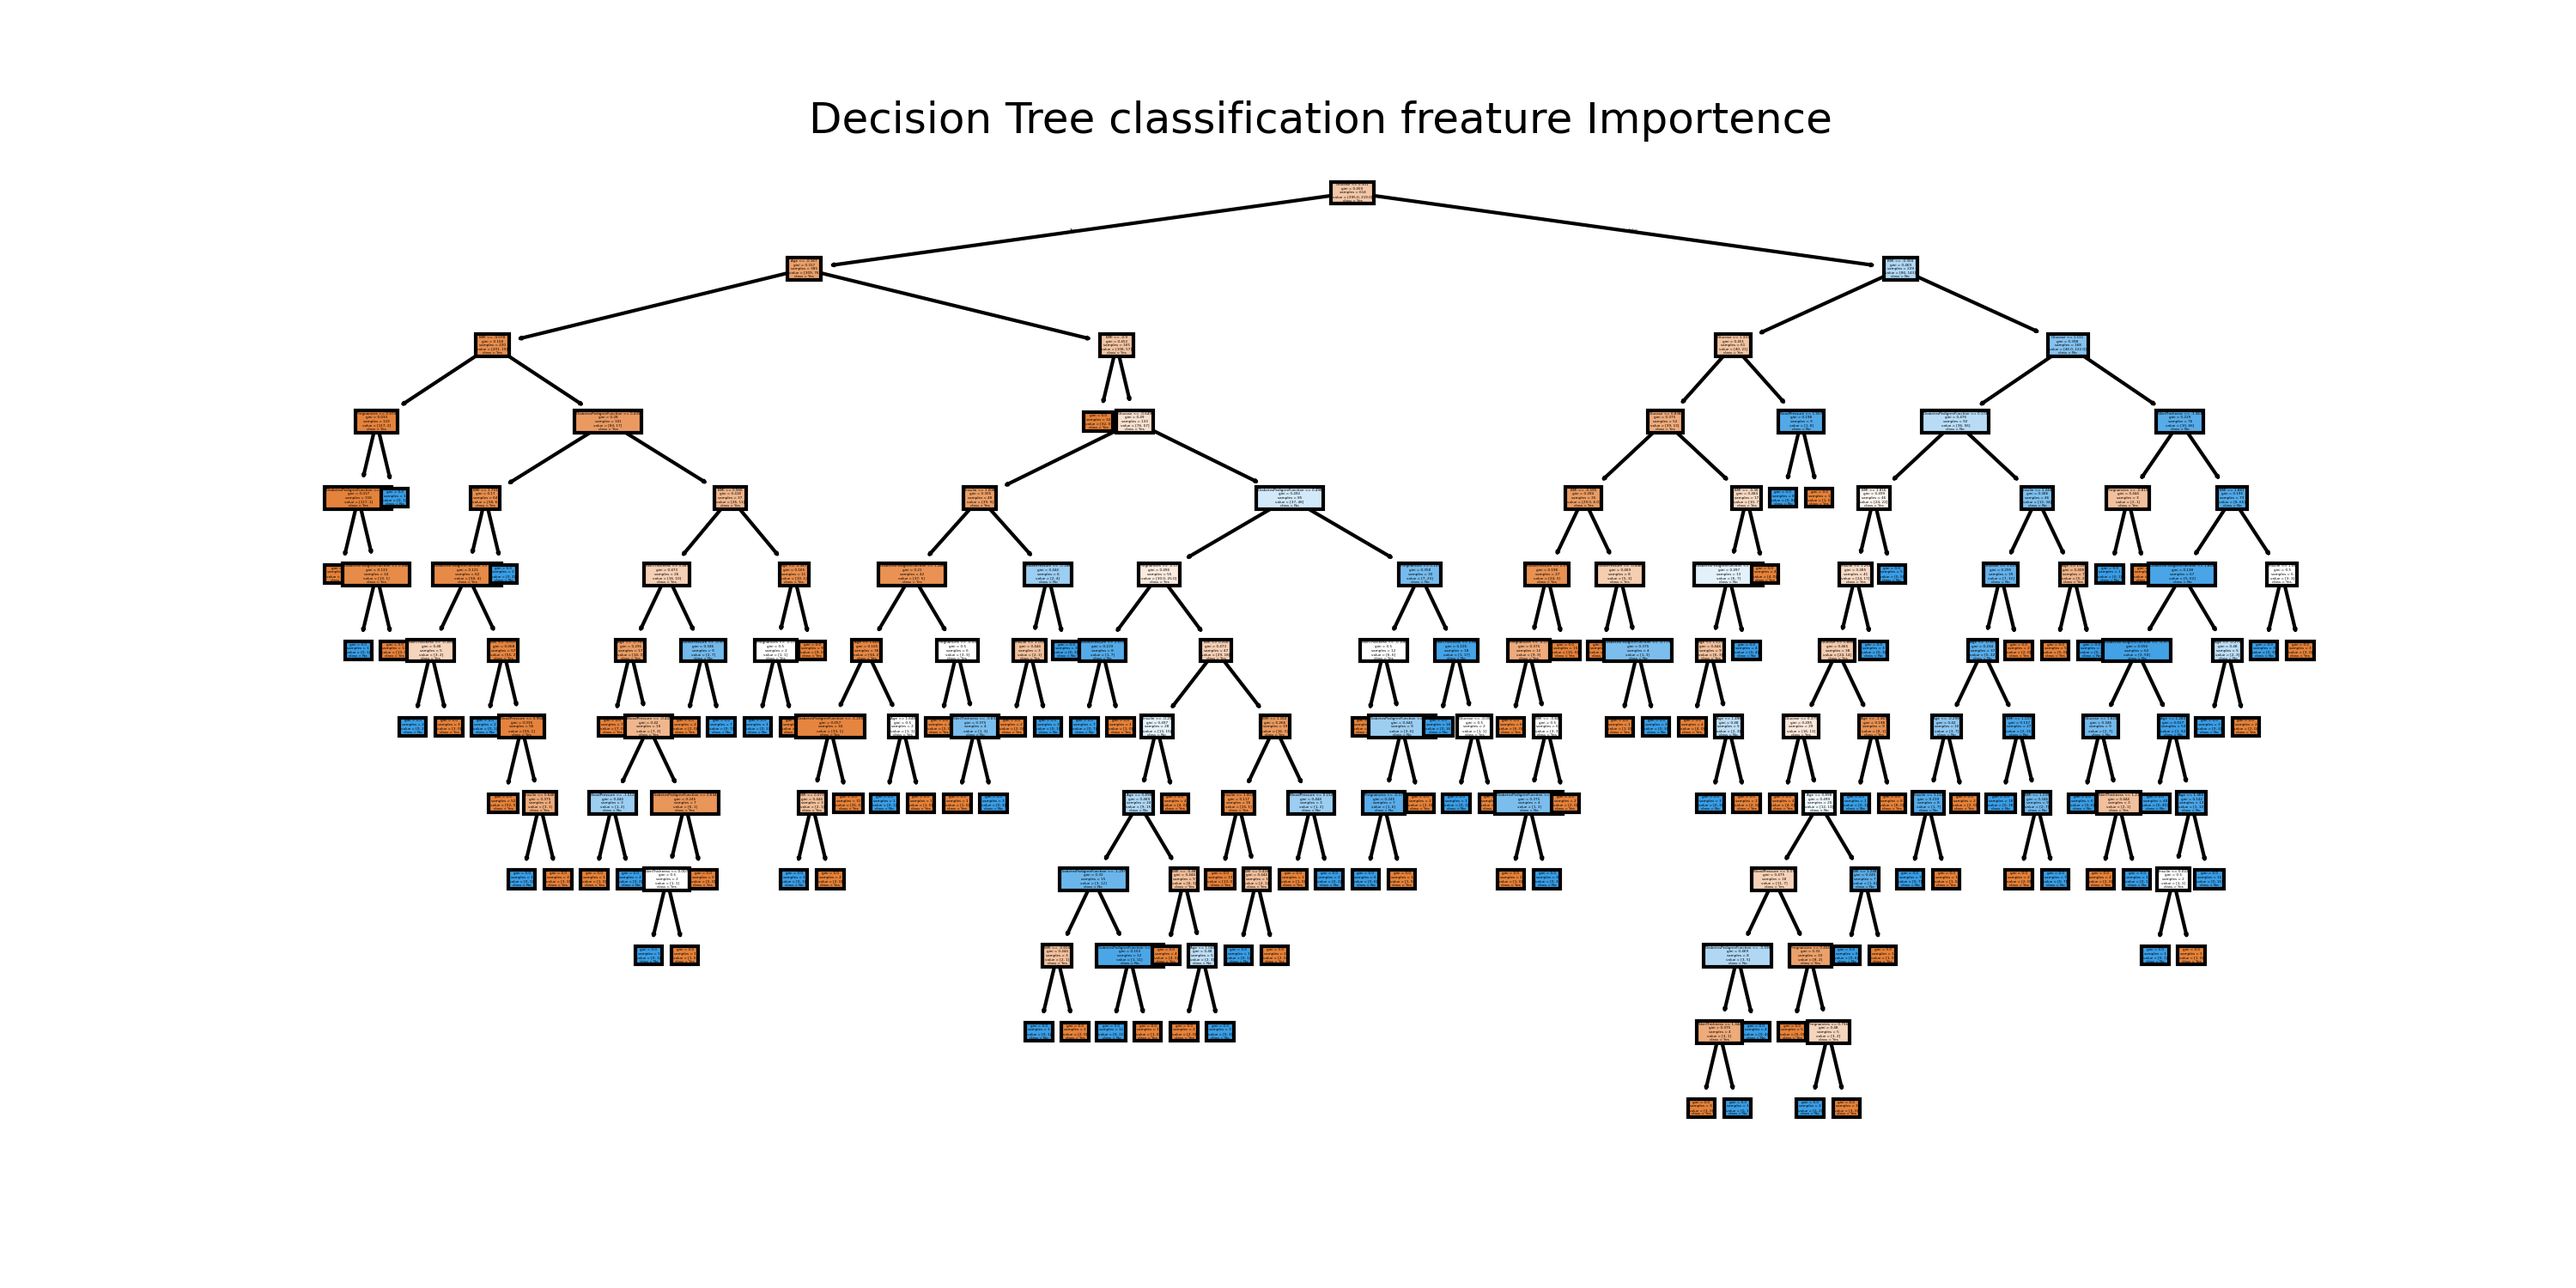
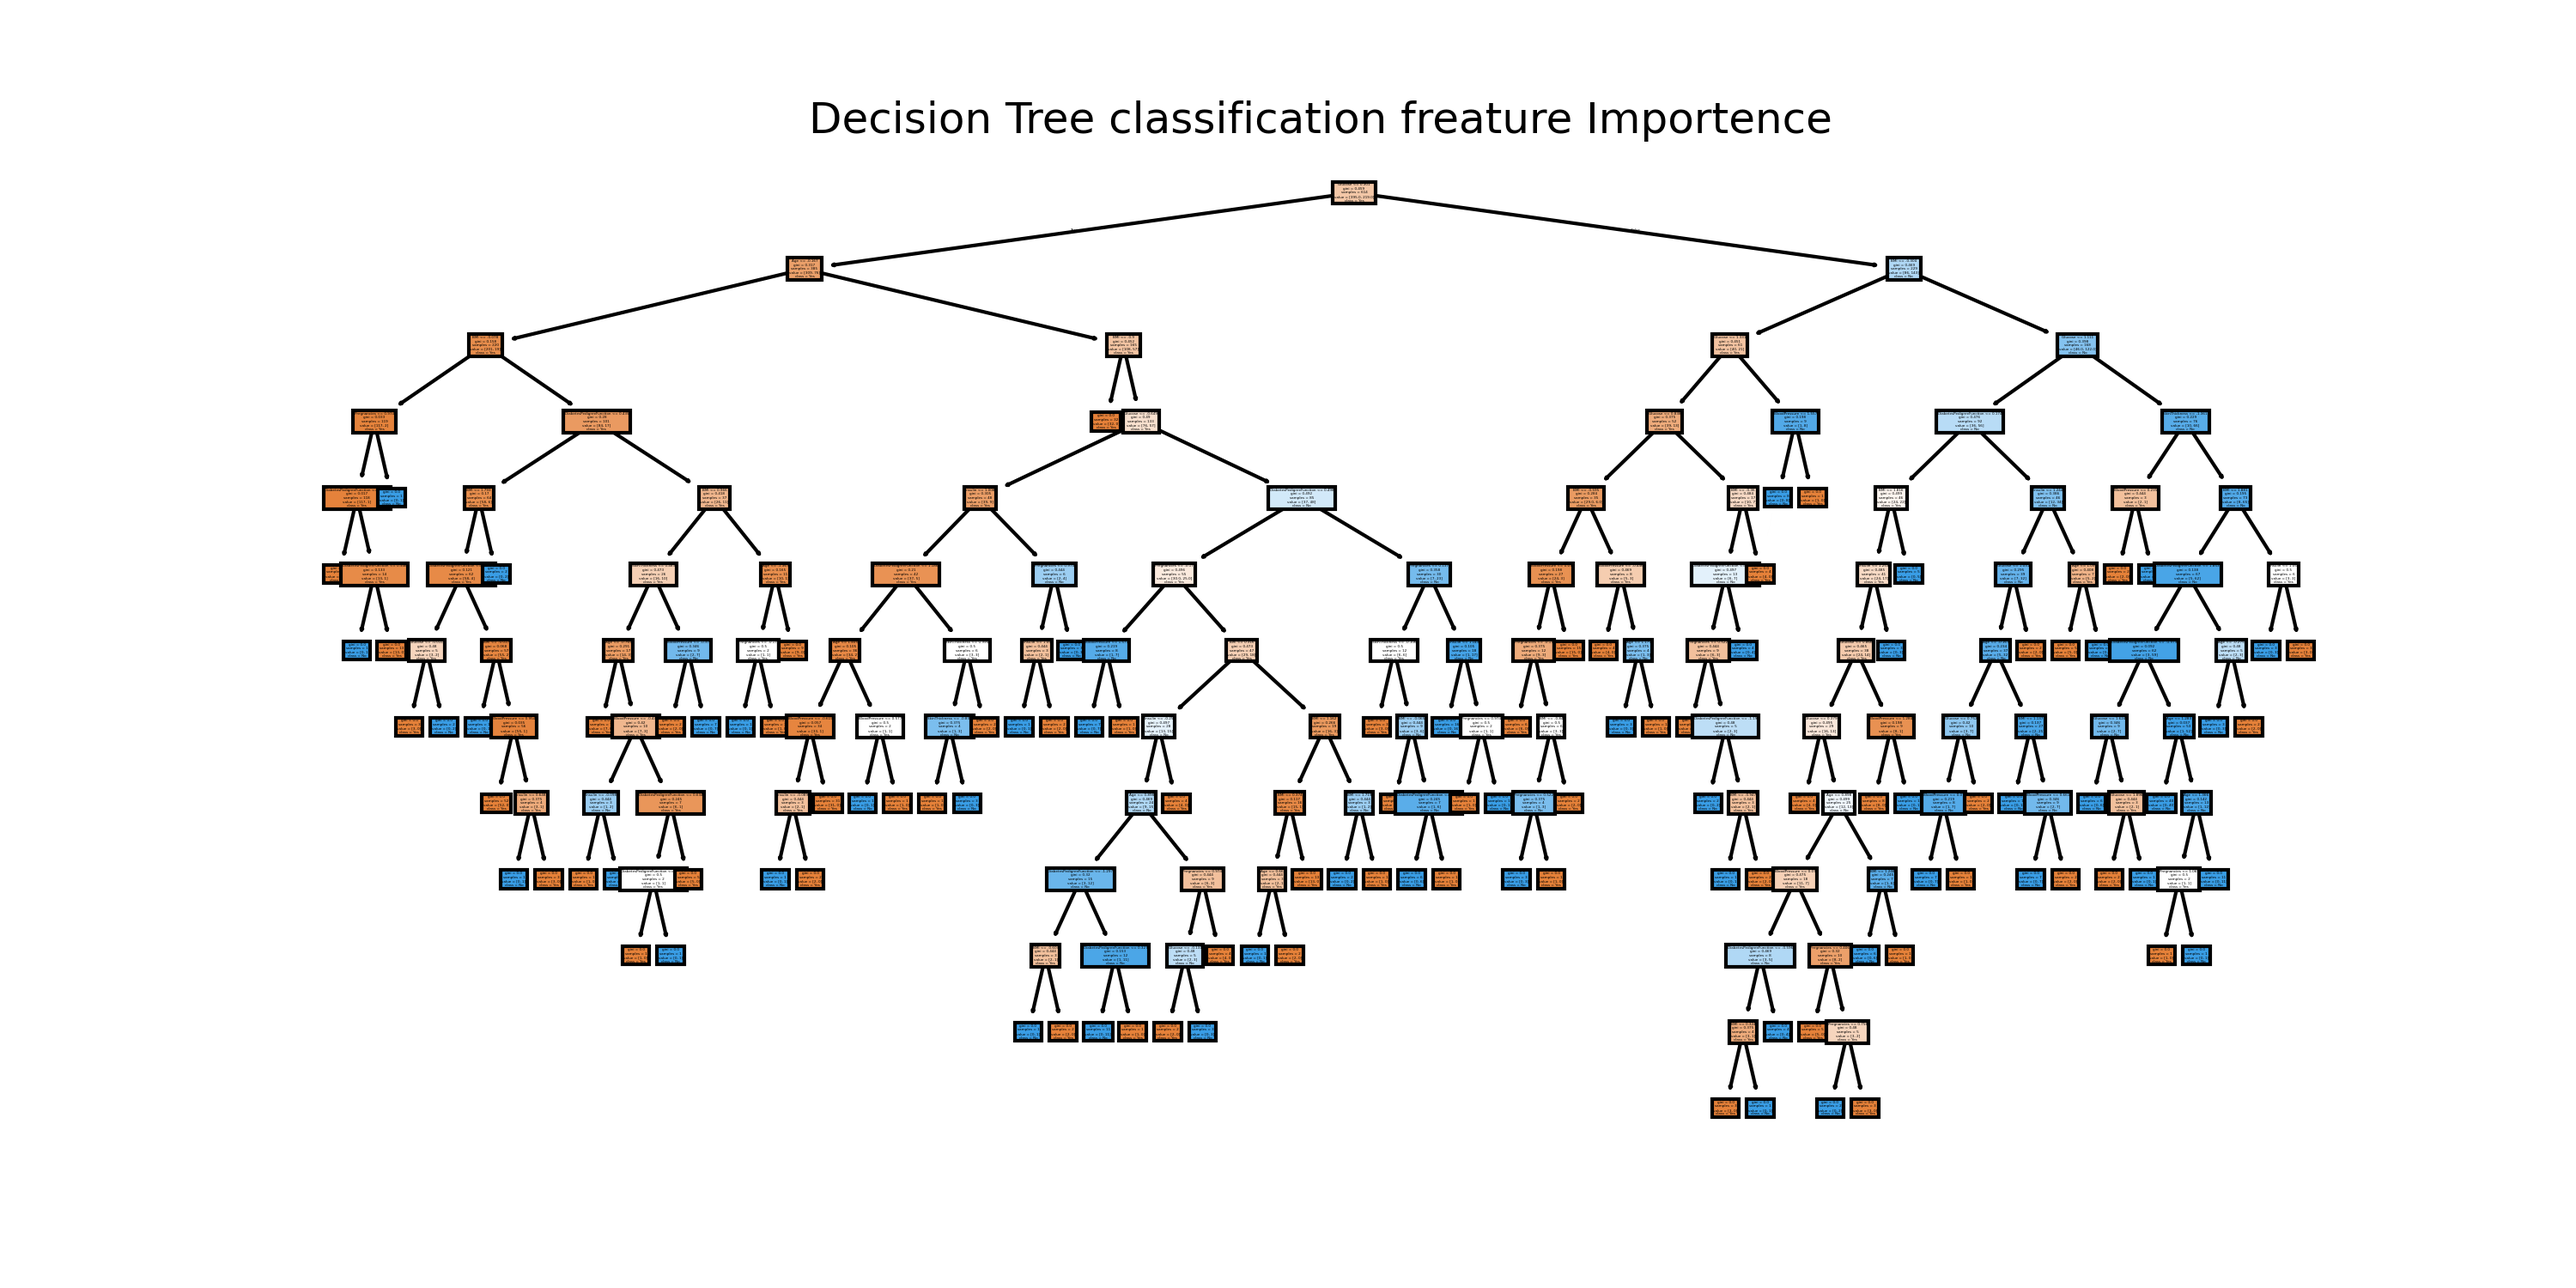
commit

diff --git a/src/project/algorithms.py b/src/project/algorithms.py
@@ -6,6 +6,8 @@ import seaborn as sns
 from sklearn.tree import DecisionTreeClassifier,plot_tree
 from sklearn.model_selection import train_test_split
 from sklearn.metrics import accuracy_score,confusion_matrix,ConfusionMatrixDisplay
+from sklearn.linear_model import LogisticRegression
+from sklearn.svm import SVC
 from sklearn.model_selection import cross_val_score
 from sklearn.model_selection import GridSearchCV
 from sklearn.preprocessing import StandardScaler
@@ -19,6 +21,206 @@ scale=StandardScaler()
 X_scale_new=scale.fit_transform(X_new)
 
 
+
+# Logistic Regression Model:
+
+class Logistic_Randomstate:
+
+    try:
+
+
+        log_train_random=[]
+        log_test_random=[]
+
+        for i in range(0,100):
+
+            X_train_log,X_test_log,y_train_log,y_test_log=train_test_split(X_scale_new,y,test_size=0.2,random_state=i)
+            log_model=LogisticRegression()
+            log_model.fit(X_train_log,y_train_log)
+            y_pred_train=log_model.predict(X_train_log)
+            y_pred_test=log_model.predict(X_test_log)
+            log_train_random.append(accuracy_score(y_pred_train,y_train_log))
+            log_test_random.append(accuracy_score(y_test_log,y_test_log))
+
+    except Exception as e:
+        raise Exception(f'Error in Logistic_Regression_Randomstate init level :\n'+str(e))
+
+class Logistic_Regression(Logistic_Randomstate):
+
+    X_train_log,X_test_log,y_train_log,y_test_log=train_test_split(X_scale_new,y,test_size=0.2,random_state=np.argmax(Logistic_Randomstate.log_test_random))
+
+    try:
+
+        logistic_model=LogisticRegression()
+        logistic_model.fit(X_train_log,y_train_log)
+        y_log_pred_train=logistic_model.predict(X_train_log)
+        y_log_pred_test=logistic_model.predict(X_test_log)
+        accuracy_log_train=accuracy_score(y_log_pred_train,y_train_log)
+        accuracy_log_test=accuracy_score(y_log_pred_test,y_test_log)
+        cross_val_log=cross_val_score(logistic_model,X_scale_new,y,cv=5).mean()
+        con_mat_log=confusion_matrix(y_test_log,y_log_pred_test)
+
+    except Exception as e:
+        raise Exception(f'Error in Logistic_Regression init level :\n'+str(e))
+
+
+    def __init__(self,logistic_model,y_log_pred_train,y_log_pred_test,accuracy_train,accuracy_test,cross_val_log,con_mat_log,log_model,log_train_random,log_test_random):
+
+        try:
+
+            self.logistic_model=logistic_model
+            self.y_log_pred_train=y_log_pred_train
+            self.y_log_pred_test=y_log_pred_test
+            self.accuracy_train=accuracy_train
+            self.accuracy_test=accuracy_test
+            self.cross_val_log=cross_val_log
+            self.con_mat_log=con_mat_log
+            self.log_model=log_model
+            self.log_train_random=log_train_random
+            self.log_test_random=log_test_random
+
+        except Exception as e:
+            raise Exception(f'Error in Logistic_Regression_Randomstate init level :\n'+str(e))
+        
+    try:
+
+
+        def logistic_model_defin(self):
+            return self.logistic_model
+        
+        def y_log_pred_train_defin(self):
+            return self.y_log_pred_train
+        
+        def y_log_pred_test_defin(self):
+            return self.y_log_pred_test
+        
+        def accuracy_train_defin(self):
+            return self.accuracy_train
+        
+        def accuracy_test_defin(self):
+            return self.accuracy_test
+        
+        def cross_val_defin(self):
+            return self.cross_val_log
+        
+        def con_mat_defin(self):
+            return self.con_mat_log
+        
+        def log_model_defin(self):
+            return super().log_model
+        
+        def log_train_random_defin(self):
+            return super().log_train_random
+        
+        def log_test_random_defin(self):
+            return super().log_test_random
+        
+    except Exception as e:
+        raise Exception(f'Error in Logistic_Regression_Randomstate init level :\n'+str(e))
+    
+
+
+ConfusionMatrixDisplay(Logistic_Regression.con_mat_log,display_labels=df['Outcome'].unique()).plot()
+plt.title('Confusion Matrix plot for Logistic Regression classification :')
+plt.savefig('C:/AI&ML Engineer/Projects/Apple/diabetes Prediction/plots/Logistic_Regression/cm_log.png')
+
+
+
+# Suport vectore classification model:
+
+
+
+class SVC_Randomstate:
+
+    try:
+
+        svc_train_random=[]
+        svc_test_random=[]
+
+        for i in range(0,100):
+            
+            X_train_svc,X_test_svc,y_train_svc,y_test_svc=train_test_split(X_scale_new,y,test_size=0.2,random_state=i)
+            svc_model=SVC()
+            svc_model.fit(X_train_svc,y_train_svc)
+            y_pred_train=svc_model.predict(X_train_svc)
+            y_pred_test=svc_model.predict(X_test_svc)
+            svc_train_random.append(accuracy_score(y_pred_train,y_train_svc))
+            svc_test_random.append(accuracy_score(y_pred_test,y_test_svc))
+
+    except Exception as e:
+        raise Exception(f'Error in SVC_Randomstate init level :\n'+str(e))
+
+class SVC_Classification(SVC_Randomstate):
+
+    X_train_svc,X_test_svc,y_train_svc,y_test_svc=train_test_split(X_scale_new,y,test_size=0.2,random_state=np.argmax(SVC_Randomstate.svc_test_random))
+
+    try: 
+        svc_main_model=SVC()
+        svc_main_model.fit(X_train_svc,y_train_svc)
+        y_svc_pred_train=svc_main_model.predict(X_train_svc)
+        y_svc_pred_test=svc_main_model.predict(X_test_svc)
+        accuracy_svc_train=accuracy_score(y_svc_pred_train,y_train_svc)
+        accuracy_svc_test=accuracy_score(y_svc_pred_test,y_test_svc)
+        cross_val_svc=cross_val_score(svc_main_model,X_scale_new,y,cv=5).mean()
+        con_mat_svc=confusion_matrix(y_test_svc,y_svc_pred_test)
+
+    except Exception as e:
+        raise Exception(f'Error in SVC_Classification init level :\n'+str(e))
+    
+    def __init__(self,svc_main_model,y_svc_pred_train,y_svc_pred_test,accuracy_train,accuracy_test,cross_val_svc,con_mat_svc,svc_model,svc_train_random,svc_test_random):
+
+        try:
+
+            self.svc_main_model=svc_main_model
+            self.y_svc_pred_train=y_svc_pred_train
+            self.y_svc_pred_test=y_svc_pred_test
+            self.accuracy_train=accuracy_train
+            self.accuracy_test=accuracy_test
+            self.cross_val_svc=cross_val_svc
+            self.con_mat_svc=con_mat_svc
+
+        except Exception as e:
+            raise Exception(f'Error in SVC_Classification init level :\n'+str(e))
+        
+    try:
+
+        def svc_main_model_defin(self):
+            return self.svc_main_model
+        
+        def y_svc_pred_train_defin(self):
+            return self.y_svc_pred_train
+        
+        def y_svc_pred_test_defin(self):
+            return self.y_svc_pred_test
+        
+        def accuracy_train_defin(self):
+            return self.accuracy_train
+        
+        def accuracy_test_defin(self):
+            return self.accuracy_test
+        
+        def cross_val_defin(self):
+            return self.cross_val_svc
+        
+        def con_mat_defin(self):
+            return self.con_mat_svc
+        
+        def svc_model_defin(self):
+            return super().svc_model
+        
+        def svc_train_random_defin(self):
+            return super().svc_train_random
+        
+        def svc_test_random_defin(self):
+            return super().svc_test_random
+        
+    except Exception as e:
+        raise Exception(f'Error in SVC_Classification init level :\n'+str(e))
+    
+
+ConfusionMatrixDisplay(SVC_Classification.con_mat_svc,display_labels=df['Outcome'].unique()).plot()
+plt.title('Confusion Matrix plot for SVC classification :')
+plt.savefig('C:/AI&ML Engineer/Projects/Apple/diabetes Prediction/plots/SVC/cm_svc.png')
 
 
 
@@ -37,29 +239,25 @@ class DecisionTree_Randomstate:
 
         for i in range(0,100):
             
-            X_train_dt,X_test_dt,y_train_dt,y_test_dt=train_test_split(X_scale_new,y,test_size=0.20,random_state=i)
-            
-            deci_model=DecisionTreeClassifier(criterion= 'entropy', max_depth= 5, max_leaf_nodes= 5, min_samples_leaf= 2, min_samples_split= 2, splitter= 'random')
+            X_train_dt,X_test_dt,y_train_dt,y_test_dt=train_test_split(X_scale_new,y,test_size=0.2,random_state=i)
+            deci_model=DecisionTreeClassifier()
             deci_model.fit(X_train_dt,y_train_dt)
             y_pred_train=deci_model.predict(X_train_dt)
             y_pred_test=deci_model.predict(X_test_dt)
-            decision_train_random.append(accuracy_score(y_train_dt,y_pred_train))
-            decision_test_ramdom.append(accuracy_score(y_test_dt,y_pred_test))
+            decision_train_random.append(accuracy_score(y_pred_train,y_train_dt))
+            decision_test_ramdom.append(accuracy_score(y_pred_test,y_test_dt))
 
     except Exception as e:
         raise Exception(f'Error in DecisionTree_Randomstate init level :\n'+str(e))
-    
-       
-    
+
 
 class DecisionTree_Classification(DecisionTree_Randomstate):
+    
+    X_train_dt,X_test_dt,y_train_dt,y_test_dt=train_test_split(X_scale_new,y,test_size=0.2,random_state=np.argmax(DecisionTree_Randomstate.decision_test_ramdom))
 
     try:
 
-
-        X_train_dt,X_test_dt,y_train_dt,y_test_dt=train_test_split(X_scale_new,y,test_size=0.20,random_state=np.argmax(DecisionTree_Randomstate.decision_test_ramdom))
-
-        decision_model=DecisionTreeClassifier(criterion= 'gini', max_depth= 4, max_leaf_nodes= 5, min_samples_leaf= 3, min_samples_split= 3, splitter= 'random')
+        decision_model=DecisionTreeClassifier(criterion= 'entropy', max_depth= 4)
         decision_model.fit(X_train_dt,y_train_dt)
         y_pred_train=decision_model.predict(X_train_dt)
         y_pred_test=decision_model.predict(X_test_dt)
@@ -128,19 +326,26 @@ class DecisionTree_Classification(DecisionTree_Randomstate):
     
 
 
-
-
-
-
-
-
-
-
-
-
 ConfusionMatrixDisplay(DecisionTree_Classification.con_mat,display_labels=df['Outcome'].unique()).plot()
 plt.title('Confusion Matrix plot for Decision Tree classification :')
-plt.savefig('C:/AI&ML Engineer/Projects/Apple/diabetes Prediction/src/project/cm_decision.png')
-    
-    
+plt.savefig('C:/AI&ML Engineer/Projects/Apple/diabetes Prediction/plots/Decision_Tree/cm_decision.png')
 
+
+print("Test Accuracy for Decision Tree :",DecisionTree_Classification.accuracy_test)
+print("Best Test Random state number :",np.argmax(DecisionTree_Randomstate.decision_test_ramdom))
+print("Train Accuracy for Decision Tree :",DecisionTree_Classification.accuracy_train)
+print("CV Accuracy for Decision Tree :",DecisionTree_Classification.cross_val)
+
+print('##'*30)
+
+print("Test Accuracy for Logistic Regression :",Logistic_Regression.accuracy_log_test)
+print("Best Test Random state number Logistic Regression :",np.argmax(Logistic_Regression.log_test_random))
+print("Train Accuracy for Logistic Regression :",Logistic_Regression.accuracy_log_train)
+print("CV Accuracy for Logistic Regression :",Logistic_Regression.cross_val_log)
+
+print('##'*30)
+
+print("Test Accuracy for SVC :",SVC_Classification.accuracy_svc_test)
+print("Best Test Random state number SVC :",np.argmax(SVC_Classification.svc_test_random))
+print("Train Accuracy for SVC :",SVC_Classification.accuracy_svc_train)
+print("CV Accuracy for SVC :",SVC_Classification.cross_val_svc)

diff --git a/src/project/feature_selection.py b/src/project/feature_selection.py
@@ -26,7 +26,7 @@ class DecisionTree_bestparam:
             X_train_dt,X_test_dt,y_train_dt,y_test_dt=train_test_split(X_scale,y,test_size=0.20,random_state=r)
             dec_modl=DecisionTreeClassifier()
             dec_modl.fit(X_train_dt,y_train_dt)
-            param={'criterion':['gini','entropy', 'log_loss'], 'splitter':['best','random'], 'max_depth':[1,2,3,4,5], 'min_samples_split':[2,3,5],'min_samples_leaf':[1,2,3,4,5], 'max_leaf_nodes':[1,2,3,4,5]}
+            param={'criterion':['gini','entropy', 'log_loss'], 'max_depth':[1,2,3,4,5]}
             d_gcv=GridSearchCV(dec_modl,param_grid=param,cv=5,verbose=5)
             d_gcv.fit(X_train_dt,y_train_dt)
             best_param=d_gcv.best_params_
@@ -65,5 +65,6 @@ plt.savefig('C:/AI&ML Engineer/Projects/Apple/diabetes Prediction/src/project/fe
 
 feat_imp=pd.DataFrame(data=DecisionTree_bestparam.d_gcv.best_estimator_.feature_importances_,index=X.columns,columns=['Feature_Importance'])
 feature_imp=feat_imp[feat_imp['Feature_Importance']>0]
-feature_selection=feature_imp.index.tolist()
-X_new=df.loc[:,['Glucose_root','BMI_root','Age_box']]
+feature_selection=feature_imp.index.to_list()
+
+X_new=X[feature_selection]

diff --git a/README.md b/README.md
@@ -417,7 +417,34 @@ Name: BMI, dtype: float64
 
 - Best Parameters for Decision Tree : {'criterion': 'log_loss', 'max_depth': 4, 'max_leaf_nodes': 5, 'min_samples_leaf': 2, 'min_samples_split': 2, 'splitter': 'random'}
 
-- Importance feature for model : [0.         0.81625979 0.         0.         0.         0.18374021
- 0.         0.        ]
+- Importance feature for model : [0.04220763 0.55296414 0.         0.01171606 0.         0.20774616
+ 0.03103841 0.1543276 ]
 
+
+```
+
+# Logistic Regression:-
+```
+
+Test Accuracy for Logistic Regression : 0.7922077922077922
+Best Test Random state number Logistic Regression : 0
+Train Accuracy for Logistic Regression : 0.7703583061889251
+CV Accuracy for Logistic Regression : 0.7656480774127832
+```
+
+# SVC:-
+```
+
+Test Accuracy for SVC : 0.8506493506493507
+Best Test Random state number SVC : 34
+Train Accuracy for SVC : 0.7801302931596091
+CV Accuracy for SVC : 0.7500891265597147
+```
+
+# Decision Tree:-
+```
+Test Accuracy for Decision Tree : 0.7727272727272727
+Best Test Random state number : 64
+Train Accuracy for Decision Tree : 0.7736156351791531
+CV Accuracy for Decision Tree : 0.7057465410406587
 ```
